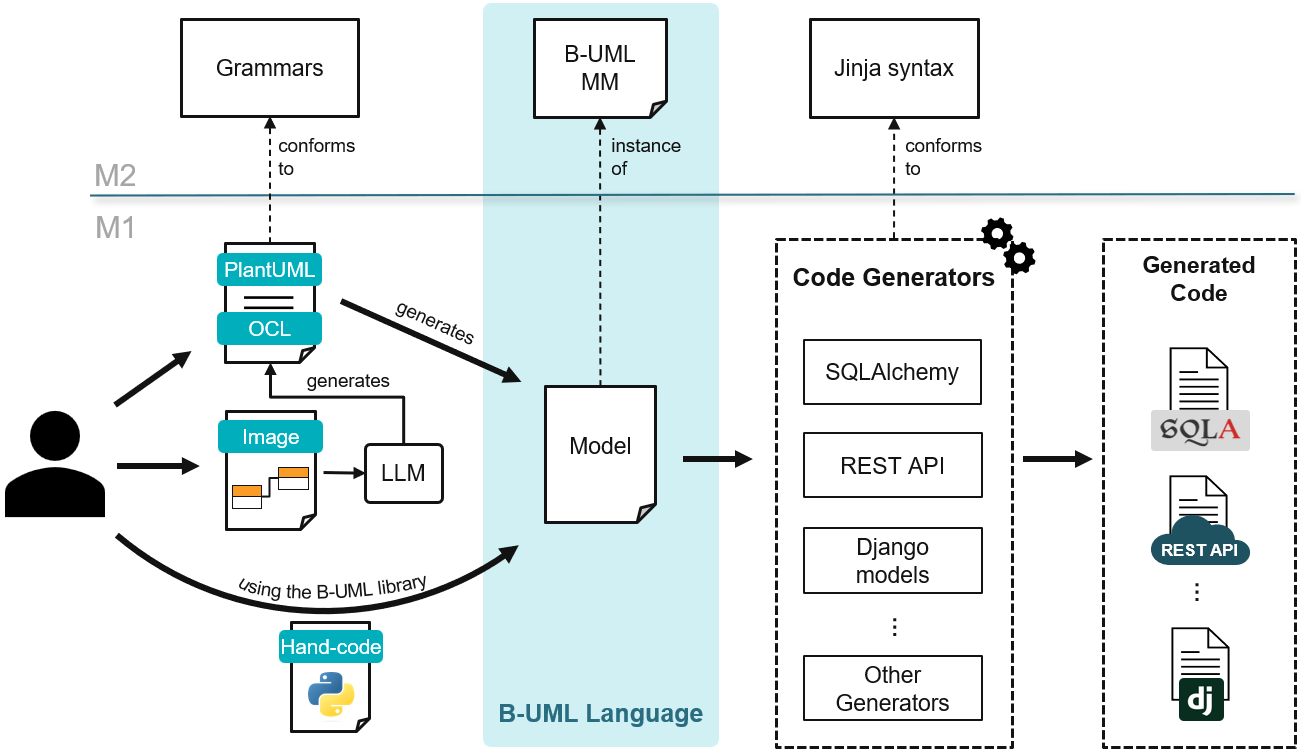
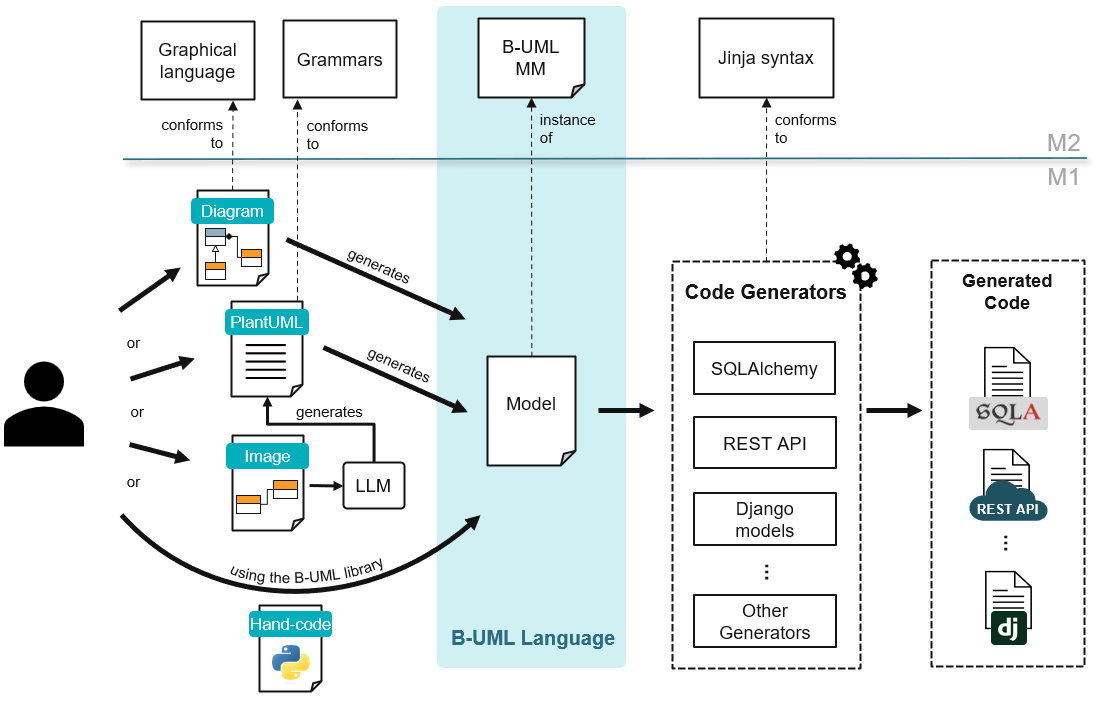
Update documentation

Changed region(s): [[0.0, 0.0, 1.0, 1.0], [0.0932, 0.7179, 0.1243, 0.7479], [0.0932, 0.4188, 0.1243, 0.4487]]

diff --git a/docs/source/buml_language.rst b/docs/source/buml_language.rst
@@ -14,11 +14,12 @@ With B-UML, you can design various types of models using its diverse sublanguage
 * :doc:`../buml_language/model_types/deployment`
 * :doc:`../buml_language/model_types/state_machine`
 
-BESSER currently offers three ways to specify your models with B-UML. However, not all model types support all three forms.
+BESSER currently offers four ways to specify your models with B-UML. However, not all model types support all three forms.
 
 * Build the model coding in Python Using the B-UML python library
 * Define the model via textual notation using one of our grammars
 * Transform an image into a B-UML model (e.g., a photo of a hand-drawn model on a board)
+* Use the BESSER Web Modeling Editor to design models with a graphical notation
 
 The following table shows the different notations supported by each type of model
 
@@ -31,7 +32,8 @@ The following table shows the different notations supported by each type of mode
 +---------------------------------------------------------------------------+------------+------------+------------+------------+------------+---------------+
 | :doc:`Image transformation <buml_language/model_building/image_to_buml>`  |     X      |            |            |            |            |               |
 +---------------------------------------------------------------------------+------------+------------+------------+------------+------------+---------------+
-
+| :doc:`Web Modeling Editor <./web_editor>`                                 |     X      |            |            |            |            |      X        |
++---------------------------------------------------------------------------+------------+------------+------------+------------+------------+---------------+
 
 Contents
 --------

diff --git a/docs/source/web_editor.rst b/docs/source/web_editor.rst
@@ -5,7 +5,7 @@ One of the practical ways to use BESSER is through the Web Modeling Editor, wher
 design :doc:`B-UML <../buml_language>` models and try the :doc:`BESSER code generators <../generators>`.
 
 .. note::
-   The BESSER Web Editor is an extension of the `Apollon project <https://apollon-library.readthedocs.io/en/latest/>`_, a UML modeling editor.
+   The BESSER Web Editor is based on a fork of the `Apollon project <https://apollon-library.readthedocs.io/en/latest/>`_, a UML modeling editor.
 
 The BESSER web editor provides a graphical dashboard to create two types of B-UML models:
 

diff --git a/docs/source/buml_language/model_building.rst b/docs/source/buml_language/model_building.rst
@@ -8,3 +8,4 @@ Creating your B-UML model
   model_building/grammars
   model_building/image_to_buml
   model_building/drawio_structural
+  Web Modeling Editor (Graphical notation) <../web_editor>
